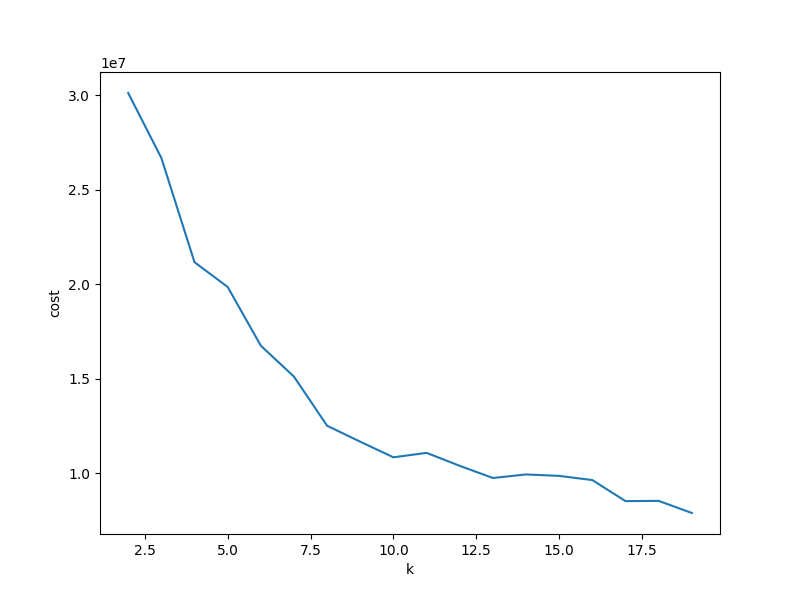
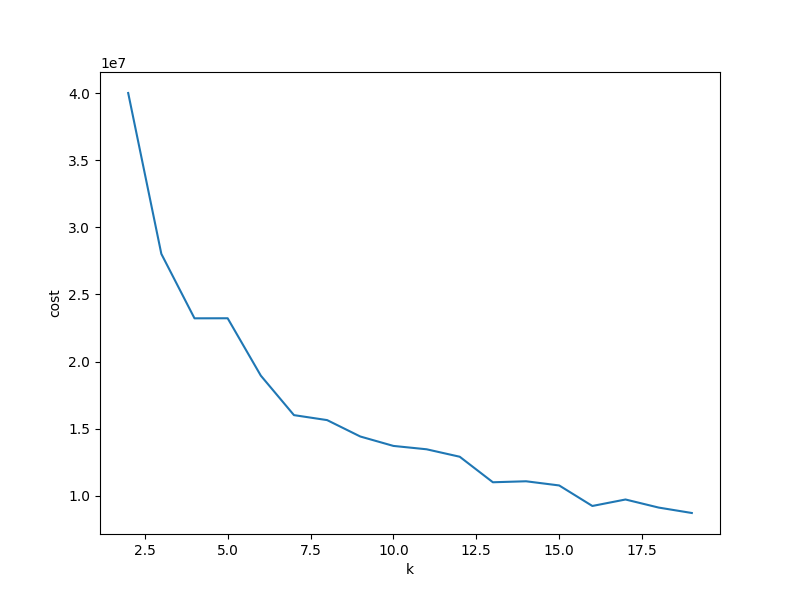
pca

diff --git a/playerCluster.py b/playerCluster.py
@@ -11,8 +11,11 @@ import numpy as np
 import matplotlib.pyplot as plt
 from pyspark.sql import SQLContext
 
+from pyspark.ml.feature import PCA
+from pyspark.ml.linalg import Vectors
+
 # ReadFile
-FEATURES_COL = ['fg3a', 'trb', 'ast', 'blk', 'tov']
+FEATURES_COL = ['fg3a', 'trb', 'ast', 'blk', 'tov', 'ast']
 path = 'data/allPlayers.csv'
 spark = SparkSession.builder.appName('NBA-Analysis').getOrCreate()
 data = spark.read.csv(path, header=True, inferSchema=True)
@@ -21,9 +24,15 @@ data.printSchema()
 data = data.where((col('mp') > 1000) & ((col("yr") == 2015) | (col("yr") == 2016)))
 data = data.na.fill(0)
 
-vecAssembler = VectorAssembler(inputCols=FEATURES_COL, outputCol="features")
-df_kmeans = vecAssembler.transform(data).select('player', 'features')
-print("!!!!!!!")
+vecAssembler = VectorAssembler(inputCols=FEATURES_COL, outputCol="Features")
+df_kmeans = vecAssembler.transform(data).select('player', 'Features')
+
+pca = PCA(k=3, inputCol="Features", outputCol="features")
+model = pca.fit(df_kmeans)
+df_kmeans = model.transform(df_kmeans).select('player', "features")
+# result.show(truncate=False)
+
+
 print(type(df_kmeans))
 df_kmeans.show()
 
